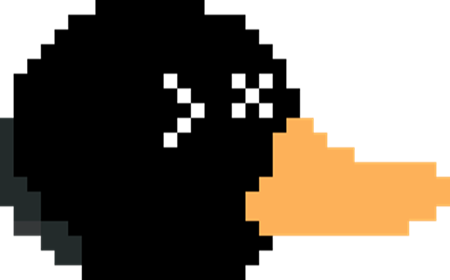
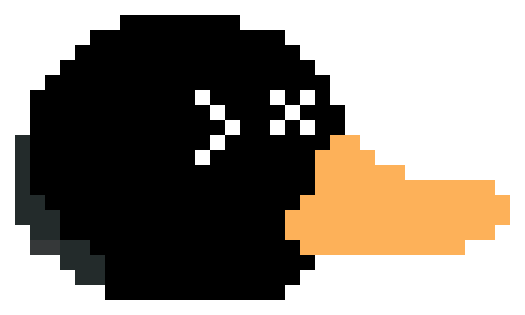
feat: added custom background and improved bird

Changed region(s): [[0.0, 0.0, 1.0, 1.0], [0.3422, 0.2571, 0.4667, 0.5429]]

diff --git a/games/flappy_bird/game.py b/games/flappy_bird/game.py
@@ -20,6 +20,10 @@ PIPE_SPEED = 3
 PIPE_SPAWN_RATE = 90  # frames between pipe spawns
 GROUND_HEIGHT = 100
 
+# Asset Path
+BASE_DIR = os.path.dirname(os.path.dirname(os.path.dirname(__file__)))
+ASSETS_DIR = os.path.join(BASE_DIR, 'assets')
+
 # Colors (Flappy Bird style)
 SKY_BLUE = (135, 206, 250)
 WHITE = (255, 255, 255)
@@ -85,32 +89,74 @@ class Pipe:
         self.gap_y = random.randint(150, SCREEN_HEIGHT - GROUND_HEIGHT - 150)
         self.passed = False
         
+        # Static storage for pipe images to avoid reloading
+        if not hasattr(Pipe, 'pipe_img'):
+            Pipe.pipe_img = None
+            pipe_path = os.path.join(ASSETS_DIR, 'pipe.png')
+            if os.path.exists(pipe_path):
+                try:
+                    raw_pipe = pygame.image.load(pipe_path).convert_alpha()
+                    # Scale width to match PIPE_WIDTH, keep aspect ratio or just stretch?
+                    # Streatching to PIPE_WIDTH is safer for gameplay consistency
+                    Pipe.pipe_img = pygame.transform.scale(raw_pipe, (PIPE_WIDTH, raw_pipe.get_height()))
+                    print(f"Loaded custom pipe: {pipe_path}")
+                except Exception as e:
+                    print(f"Could not load pipe image: {e}")
+        
     def update(self):
         self.x -= PIPE_SPEED
         
     def draw(self, screen):
-        # Top pipe
-        top_rect = pygame.Rect(self.x, 0, PIPE_WIDTH, self.gap_y - PIPE_GAP // 2)
-        pygame.draw.rect(screen, GREEN, top_rect)
-        pygame.draw.rect(screen, BLACK, top_rect, 3)
-        
-        # Bottom pipe
-        bottom_y = self.gap_y + PIPE_GAP // 2
-        bottom_rect = pygame.Rect(self.x, bottom_y, PIPE_WIDTH, 
-                                  SCREEN_HEIGHT - GROUND_HEIGHT - bottom_y)
-        pygame.draw.rect(screen, GREEN, bottom_rect)
-        pygame.draw.rect(screen, BLACK, bottom_rect, 3)
-        
-        # Pipe caps
-        cap_width = PIPE_WIDTH + 10
-        top_cap = pygame.Rect(self.x - 5, self.gap_y - PIPE_GAP // 2 - 20, 
-                             cap_width, 20)
-        bottom_cap = pygame.Rect(self.x - 5, self.gap_y + PIPE_GAP // 2, 
+        if hasattr(Pipe, 'pipe_img') and Pipe.pipe_img:
+            # Draw using images
+            
+            # Bottom Pipe
+            # Calculate visible height for bottom pipe
+            bottom_y = self.gap_y + PIPE_GAP // 2
+            bottom_height = SCREEN_HEIGHT - GROUND_HEIGHT - bottom_y
+            
+            # Handle bottom pipe
+            # We crop the pipe image or scale it? 
+            # Standard flappy bird pipes have a cap at top.
+            # Let's simple-scale the whole image to the rect for now to fit any user image.
+            # A more advanced way is to slice the cap, but user might provide anything.
+            # Let's try to keep aspect ratio of cap if possible, but stretching is easiest "just works" logic.
+            # Better visual: Tile the body, Draw cap. But we don't know capping.
+            # Simple approach: Scale simple.
+            
+            bottom_pipe_surface = pygame.transform.scale(Pipe.pipe_img, (PIPE_WIDTH, bottom_height))
+            screen.blit(bottom_pipe_surface, (self.x, bottom_y))
+            
+            # Top Pipe
+            top_height = self.gap_y - PIPE_GAP // 2
+            top_pipe_surface = pygame.transform.scale(Pipe.pipe_img, (PIPE_WIDTH, top_height))
+            # Flip vertically for the top pipe
+            top_pipe_surface = pygame.transform.flip(top_pipe_surface, False, True)
+            screen.blit(top_pipe_surface, (self.x, 0))
+            
+        else:
+            # Top pipe
+            top_rect = pygame.Rect(self.x, 0, PIPE_WIDTH, self.gap_y - PIPE_GAP // 2)
+            pygame.draw.rect(screen, GREEN, top_rect)
+            pygame.draw.rect(screen, BLACK, top_rect, 3)
+            
+            # Bottom pipe
+            bottom_y = self.gap_y + PIPE_GAP // 2
+            bottom_rect = pygame.Rect(self.x, bottom_y, PIPE_WIDTH, 
+                                      SCREEN_HEIGHT - GROUND_HEIGHT - bottom_y)
+            pygame.draw.rect(screen, GREEN, bottom_rect)
+            pygame.draw.rect(screen, BLACK, bottom_rect, 3)
+            
+            # Pipe caps
+            cap_width = PIPE_WIDTH + 10
+            top_cap = pygame.Rect(self.x - 5, self.gap_y - PIPE_GAP // 2 - 20, 
                                  cap_width, 20)
-        pygame.draw.rect(screen, GREEN, top_cap)
-        pygame.draw.rect(screen, BLACK, top_cap, 3)
-        pygame.draw.rect(screen, GREEN, bottom_cap)
-        pygame.draw.rect(screen, BLACK, bottom_cap, 3)
+            bottom_cap = pygame.Rect(self.x - 5, self.gap_y + PIPE_GAP // 2, 
+                                     cap_width, 20)
+            pygame.draw.rect(screen, GREEN, top_cap)
+            pygame.draw.rect(screen, BLACK, top_cap, 3)
+            pygame.draw.rect(screen, GREEN, bottom_cap)
+            pygame.draw.rect(screen, BLACK, bottom_cap, 3)
         
     def get_rects(self):
         top_rect = pygame.Rect(self.x, 0, PIPE_WIDTH, self.gap_y - PIPE_GAP // 2)
@@ -140,6 +186,17 @@ class Game:
         self.sound_manager = sound_manager
         self.reset()
         self.high_score = self.load_high_score()
+        
+        # Load background
+        self.background_img = None
+        bg_path = os.path.join(ASSETS_DIR, 'background.png')
+        if os.path.exists(bg_path):
+            try:
+                bg = pygame.image.load(bg_path).convert()
+                self.background_img = pygame.transform.scale(bg, (SCREEN_WIDTH, SCREEN_HEIGHT))
+                print(f"Loaded background: {bg_path}")
+            except Exception as e:
+                print(f"Could not load background: {e}")
         
     def reset(self):
         self.bird = Bird(SCREEN_WIDTH // 4, SCREEN_HEIGHT // 2)
@@ -238,15 +295,18 @@ class Game:
     
     def draw(self):
         # Draw sky background
-        self.screen.fill(SKY_BLUE)
-        
-        # Draw clouds (simple circles)
-        for i in range(3):
-            x = (i * 150 + self.frame_count // 2) % (SCREEN_WIDTH + 100) - 50
-            y = 50 + i * 80
-            pygame.draw.circle(self.screen, WHITE, (x, y), 30)
-            pygame.draw.circle(self.screen, WHITE, (x + 20, y), 35)
-            pygame.draw.circle(self.screen, WHITE, (x + 40, y), 30)
+        if self.background_img:
+            self.screen.blit(self.background_img, (0, 0))
+        else:
+            self.screen.fill(SKY_BLUE)
+            
+            # Draw clouds (simple circles)
+            for i in range(3):
+                x = (i * 150 + self.frame_count // 2) % (SCREEN_WIDTH + 100) - 50
+                y = 50 + i * 80
+                pygame.draw.circle(self.screen, WHITE, (x, y), 30)
+                pygame.draw.circle(self.screen, WHITE, (x + 20, y), 35)
+                pygame.draw.circle(self.screen, WHITE, (x + 40, y), 30)
         
         if self.game_started:
             # Draw pipes
@@ -273,11 +333,11 @@ class Game:
             self.screen.blit(shadow_text, shadow_rect)
             self.screen.blit(start_text, start_rect)
             
-            instruction_text = self.font.render("Alternate L/R Hands to Jump!", True, BLACK)
+            instruction_text = self.font.render("Alternate L/R Hands to Jump!", True, WHITE)
             inst_rect = instruction_text.get_rect(center=(SCREEN_WIDTH // 2, SCREEN_HEIGHT // 2 + 50))
             self.screen.blit(instruction_text, inst_rect)
             
-            instruction_text2 = pygame.font.Font(None, 24).render("Wave Left, then Right, then Left...", True, BLACK)
+            instruction_text2 = pygame.font.Font(None, 24).render("Wave Left, then Right, then Left...", True, WHITE)
             inst_rect2 = instruction_text2.get_rect(center=(SCREEN_WIDTH // 2, SCREEN_HEIGHT // 2 + 80))
             self.screen.blit(instruction_text2, inst_rect2)
             
